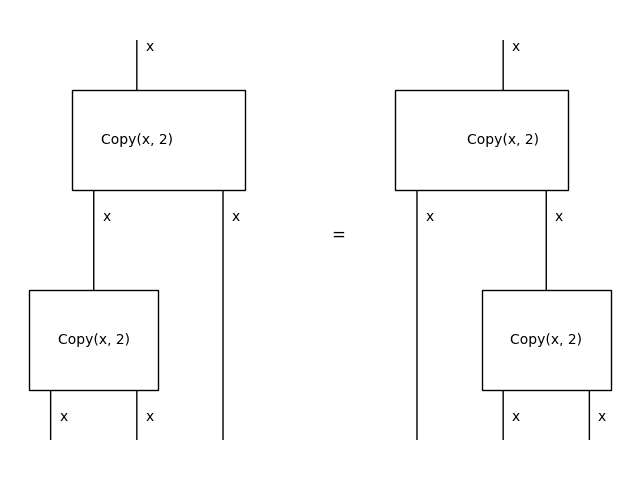
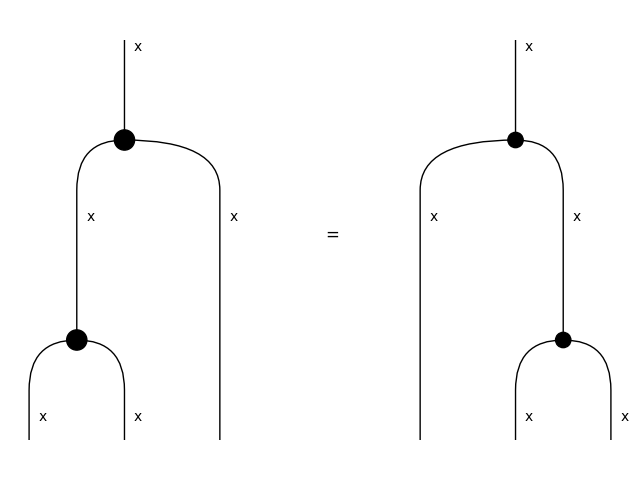
copy in cartesian docs

diff --git a/discopy/cartesian.py b/discopy/cartesian.py
@@ -115,7 +115,8 @@ class Copy(Box):
     """
     def __init__(self, x: monoidal.Ty, n: int = 2):
         assert_isatomic(x, monoidal.Ty)
-        super().__init__(name="Copy({}, {})".format(x, n), dom=x, cod=x ** n)
+        super().__init__(name="Copy({}, {})".format(x, n), dom=x, cod=x ** n,
+                         draw_as_spider=True, color="black", drawing_name="")
 
 
 class Category(symmetric.Category):
